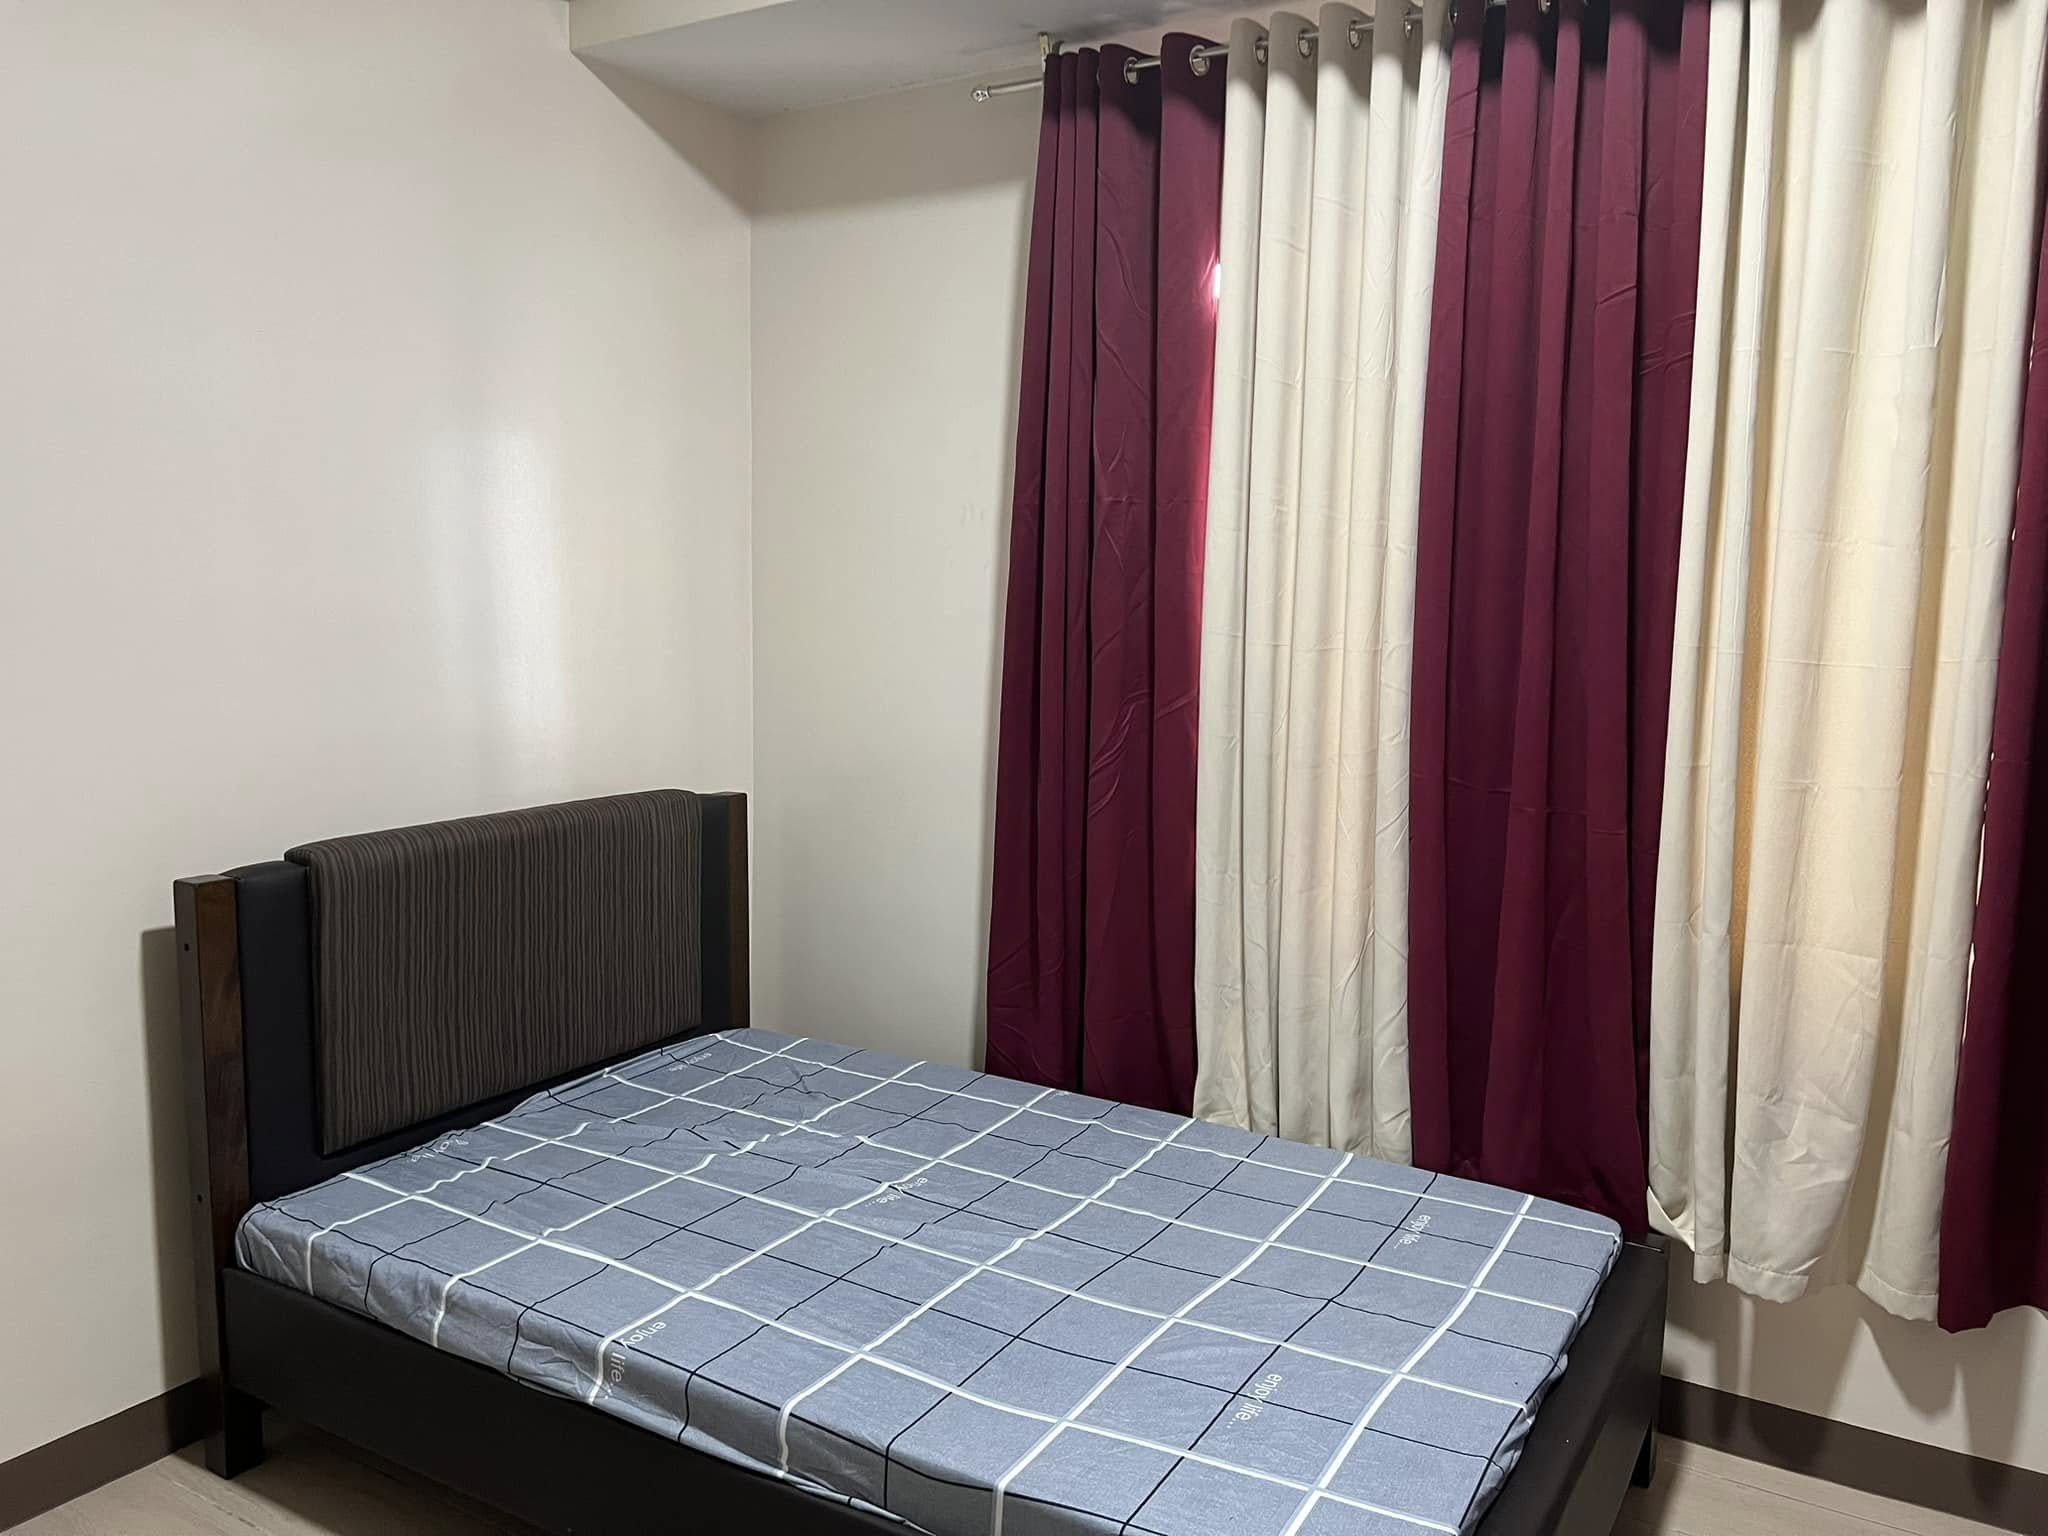
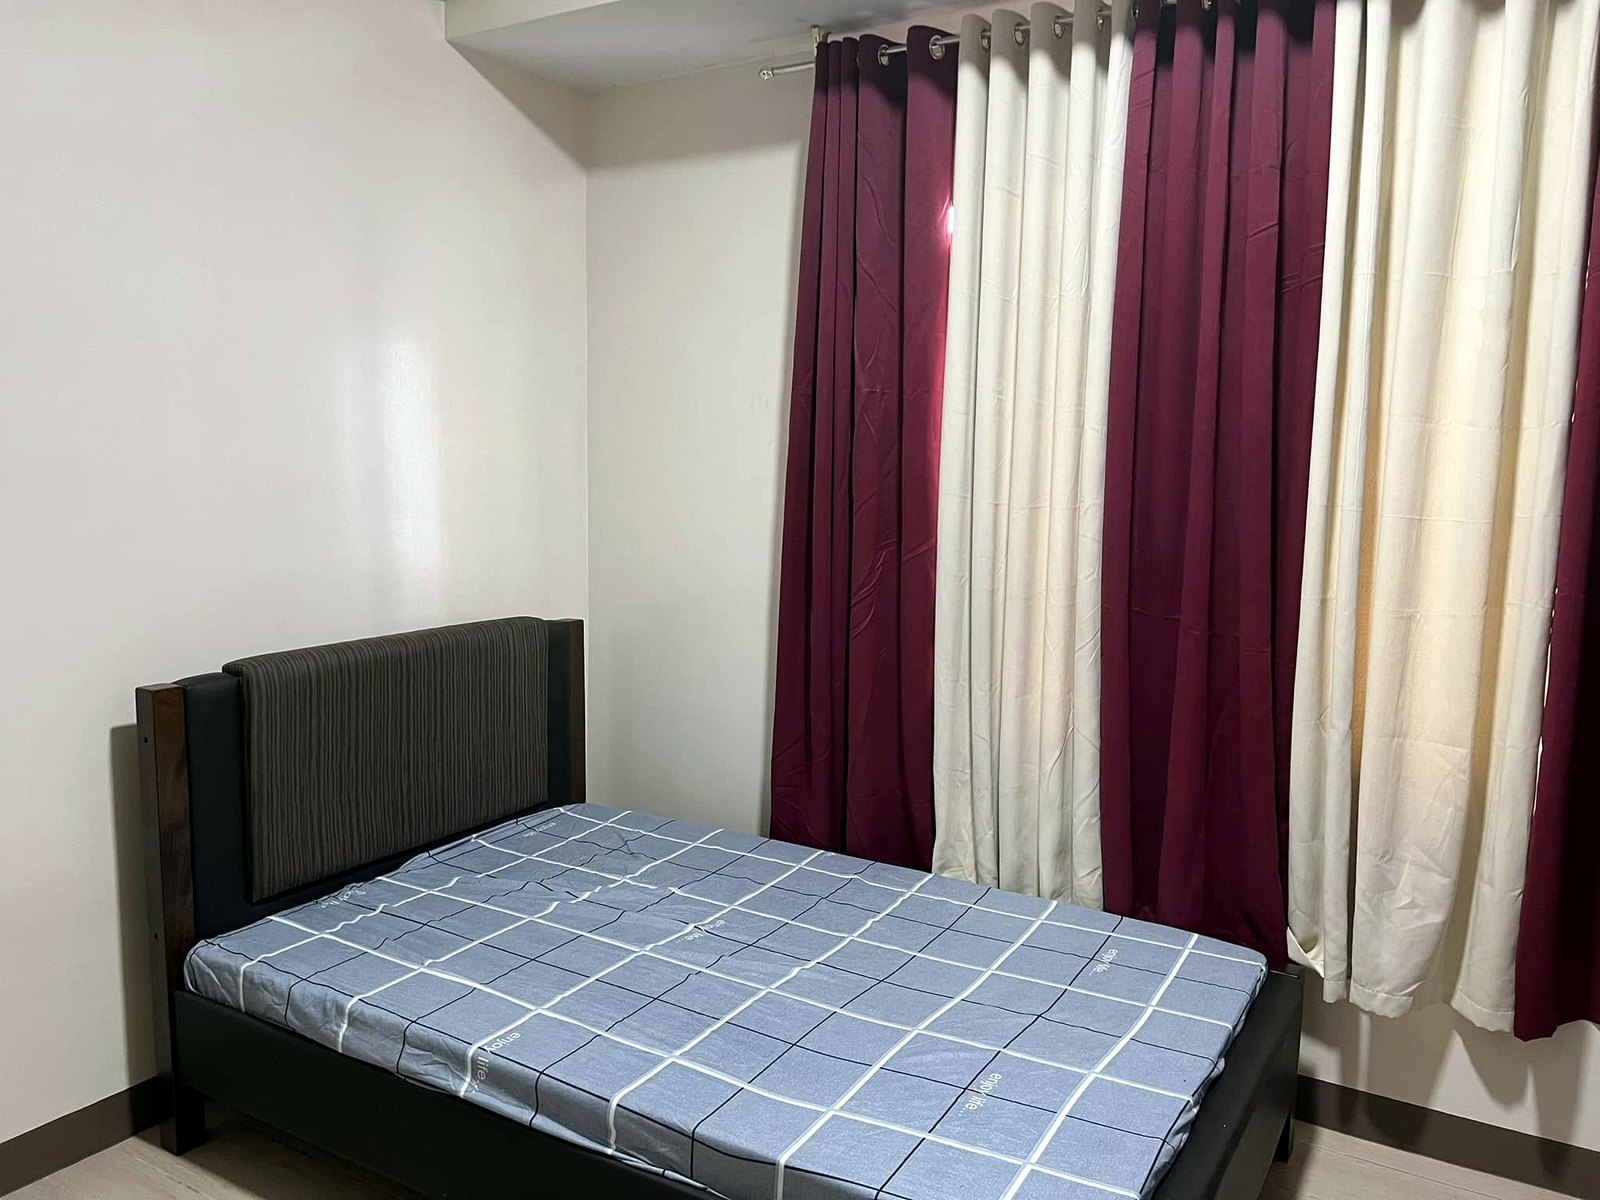
Enhance photos, uncropped gallery, reorder best shots first

diff --git a/index.html b/index.html
@@ -24,21 +24,21 @@
 
         <!-- Gallery: drop photos in images/ and list them here -->
         <section>
-            <div id="gallery" class="grid grid-cols-2 md:grid-cols-3 gap-4">
-                <a href="images/329946470_5366586106779161_6284296992386201504_n.jpg" target="_blank"><img src="images/329946470_5366586106779161_6284296992386201504_n.jpg" loading="lazy" alt="Studio unit photo" class="w-full aspect-video object-cover rounded-lg"></a>
-                <a href="images/468843700_544158738588555_2227820781650352905_n.jpg" target="_blank"><img src="images/468843700_544158738588555_2227820781650352905_n.jpg" loading="lazy" alt="Studio unit photo" class="w-full aspect-video object-cover rounded-lg"></a>
-                <a href="images/468919355_544158735255222_4988289163739143904_n.jpg" target="_blank"><img src="images/468919355_544158735255222_4988289163739143904_n.jpg" loading="lazy" alt="Studio unit photo" class="w-full aspect-video object-cover rounded-lg"></a>
-                <a href="images/468935248_544158731921889_1648819642890352480_n.jpg" target="_blank"><img src="images/468935248_544158731921889_1648819642890352480_n.jpg" loading="lazy" alt="Studio unit photo" class="w-full aspect-video object-cover rounded-lg"></a>
-                <a href="images/468958824_544158745255221_8602404132600059046_n.jpg" target="_blank"><img src="images/468958824_544158745255221_8602404132600059046_n.jpg" loading="lazy" alt="Studio unit photo" class="w-full aspect-video object-cover rounded-lg"></a>
-                <a href="images/479948788_598663406471421_7083262527111057141_n.jpg" target="_blank"><img src="images/479948788_598663406471421_7083262527111057141_n.jpg" loading="lazy" alt="Studio unit photo" class="w-full aspect-video object-cover rounded-lg"></a>
-                <a href="images/480189518_598663796471382_1472130917622962711_n.jpg" target="_blank"><img src="images/480189518_598663796471382_1472130917622962711_n.jpg" loading="lazy" alt="Studio unit photo" class="w-full aspect-video object-cover rounded-lg"></a>
-                <a href="images/480193152_598663799804715_4408644464615191617_n.jpg" target="_blank"><img src="images/480193152_598663799804715_4408644464615191617_n.jpg" loading="lazy" alt="Studio unit photo" class="w-full aspect-video object-cover rounded-lg"></a>
-                <a href="images/480219739_598663413138087_3627390142171505132_n.jpg" target="_blank"><img src="images/480219739_598663413138087_3627390142171505132_n.jpg" loading="lazy" alt="Studio unit photo" class="w-full aspect-video object-cover rounded-lg"></a>
-                <a href="images/480273085_598663809804714_6665302730415333785_n.jpg" target="_blank"><img src="images/480273085_598663809804714_6665302730415333785_n.jpg" loading="lazy" alt="Studio unit photo" class="w-full aspect-video object-cover rounded-lg"></a>
-                <a href="images/480285043_598663669804728_406494791856668725_n.jpg" target="_blank"><img src="images/480285043_598663669804728_406494791856668725_n.jpg" loading="lazy" alt="Studio unit photo" class="w-full aspect-video object-cover rounded-lg"></a>
-                <a href="images/480321203_598663813138047_4235898416046226545_n.jpg" target="_blank"><img src="images/480321203_598663813138047_4235898416046226545_n.jpg" loading="lazy" alt="Studio unit photo" class="w-full aspect-video object-cover rounded-lg"></a>
-                <a href="images/480322711_598663793138049_8078426374724400741_n.jpg" target="_blank"><img src="images/480322711_598663793138049_8078426374724400741_n.jpg" loading="lazy" alt="Studio unit photo" class="w-full aspect-video object-cover rounded-lg"></a>
-                <a href="images/650348345_912791105058648_1309086694618650885_n.jpg" target="_blank"><img src="images/650348345_912791105058648_1309086694618650885_n.jpg" loading="lazy" alt="Studio unit photo" class="w-full aspect-video object-cover rounded-lg"></a>
+            <div id="gallery" class="columns-1 sm:columns-2 md:columns-3 gap-4">
+                <a href="images/480189518_598663796471382_1472130917622962711_n.jpg" target="_blank" class="block mb-4 break-inside-avoid"><img src="images/480189518_598663796471382_1472130917622962711_n.jpg" loading="lazy" alt="Bedroom with bed and curtains" class="w-full rounded-lg"></a>
+                <a href="images/479948788_598663406471421_7083262527111057141_n.jpg" target="_blank" class="block mb-4 break-inside-avoid"><img src="images/479948788_598663406471421_7083262527111057141_n.jpg" loading="lazy" alt="Bed and bathroom entrance" class="w-full rounded-lg"></a>
+                <a href="images/468919355_544158735255222_4988289163739143904_n.jpg" target="_blank" class="block mb-4 break-inside-avoid"><img src="images/468919355_544158735255222_4988289163739143904_n.jpg" loading="lazy" alt="Window with city view" class="w-full rounded-lg"></a>
+                <a href="images/480285043_598663669804728_406494791856668725_n.jpg" target="_blank" class="block mb-4 break-inside-avoid"><img src="images/480285043_598663669804728_406494791856668725_n.jpg" loading="lazy" alt="Kitchen area with range hood" class="w-full rounded-lg"></a>
+                <a href="images/468935248_544158731921889_1648819642890352480_n.jpg" target="_blank" class="block mb-4 break-inside-avoid"><img src="images/468935248_544158731921889_1648819642890352480_n.jpg" loading="lazy" alt="Kitchen cabinets and sink" class="w-full rounded-lg"></a>
+                <a href="images/480193152_598663799804715_4408644464615191617_n.jpg" target="_blank" class="block mb-4 break-inside-avoid"><img src="images/480193152_598663799804715_4408644464615191617_n.jpg" loading="lazy" alt="Dining area and cabinet" class="w-full rounded-lg"></a>
+                <a href="images/480273085_598663809804714_6665302730415333785_n.jpg" target="_blank" class="block mb-4 break-inside-avoid"><img src="images/480273085_598663809804714_6665302730415333785_n.jpg" loading="lazy" alt="Air conditioner and curtains" class="w-full rounded-lg"></a>
+                <a href="images/468843700_544158738588555_2227820781650352905_n.jpg" target="_blank" class="block mb-4 break-inside-avoid"><img src="images/468843700_544158738588555_2227820781650352905_n.jpg" loading="lazy" alt="Built-in cabinet" class="w-full rounded-lg"></a>
+                <a href="images/650348345_912791105058648_1309086694618650885_n.jpg" target="_blank" class="block mb-4 break-inside-avoid"><img src="images/650348345_912791105058648_1309086694618650885_n.jpg" loading="lazy" alt="Air conditioner and window" class="w-full rounded-lg"></a>
+                <a href="images/329946470_5366586106779161_6284296992386201504_n.jpg" target="_blank" class="block mb-4 break-inside-avoid"><img src="images/329946470_5366586106779161_6284296992386201504_n.jpg" loading="lazy" alt="Bathroom sink" class="w-full rounded-lg"></a>
+                <a href="images/468958824_544158745255221_8602404132600059046_n.jpg" target="_blank" class="block mb-4 break-inside-avoid"><img src="images/468958824_544158745255221_8602404132600059046_n.jpg" loading="lazy" alt="Shower area" class="w-full rounded-lg"></a>
+                <a href="images/480322711_598663793138049_8078426374724400741_n.jpg" target="_blank" class="block mb-4 break-inside-avoid"><img src="images/480322711_598663793138049_8078426374724400741_n.jpg" loading="lazy" alt="Bathroom" class="w-full rounded-lg"></a>
+                <a href="images/480219739_598663413138087_3627390142171505132_n.jpg" target="_blank" class="block mb-4 break-inside-avoid"><img src="images/480219739_598663413138087_3627390142171505132_n.jpg" loading="lazy" alt="Laundry corner" class="w-full rounded-lg"></a>
+                <a href="images/480321203_598663813138047_4235898416046226545_n.jpg" target="_blank" class="block mb-4 break-inside-avoid"><img src="images/480321203_598663813138047_4235898416046226545_n.jpg" loading="lazy" alt="Refrigerator" class="w-full rounded-lg"></a>
             </div>
         </section>
 
